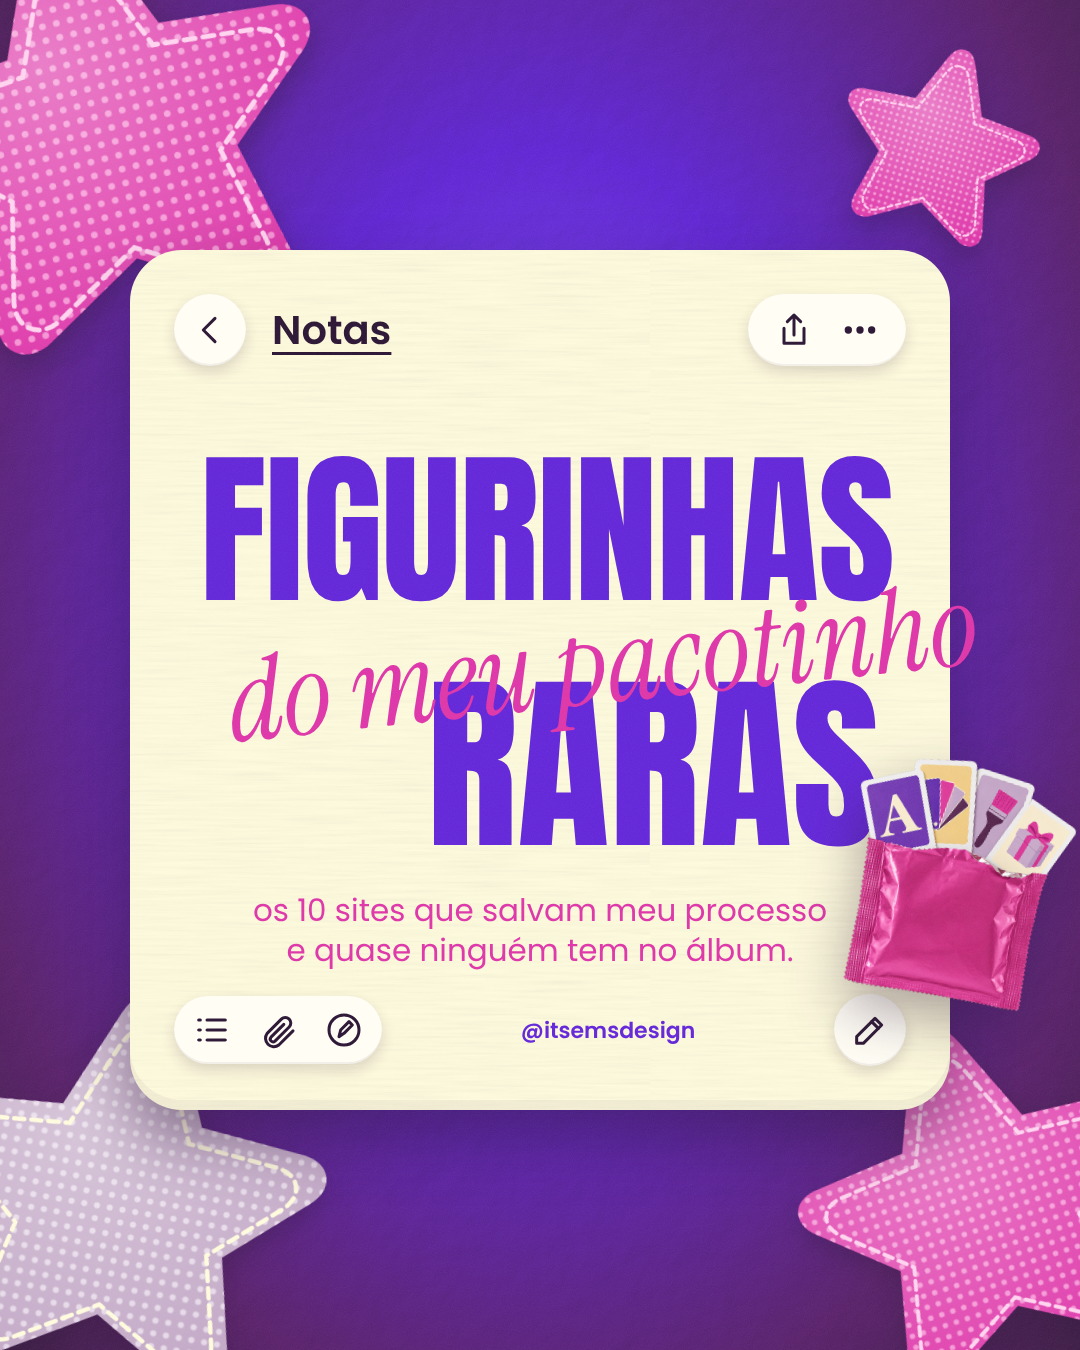
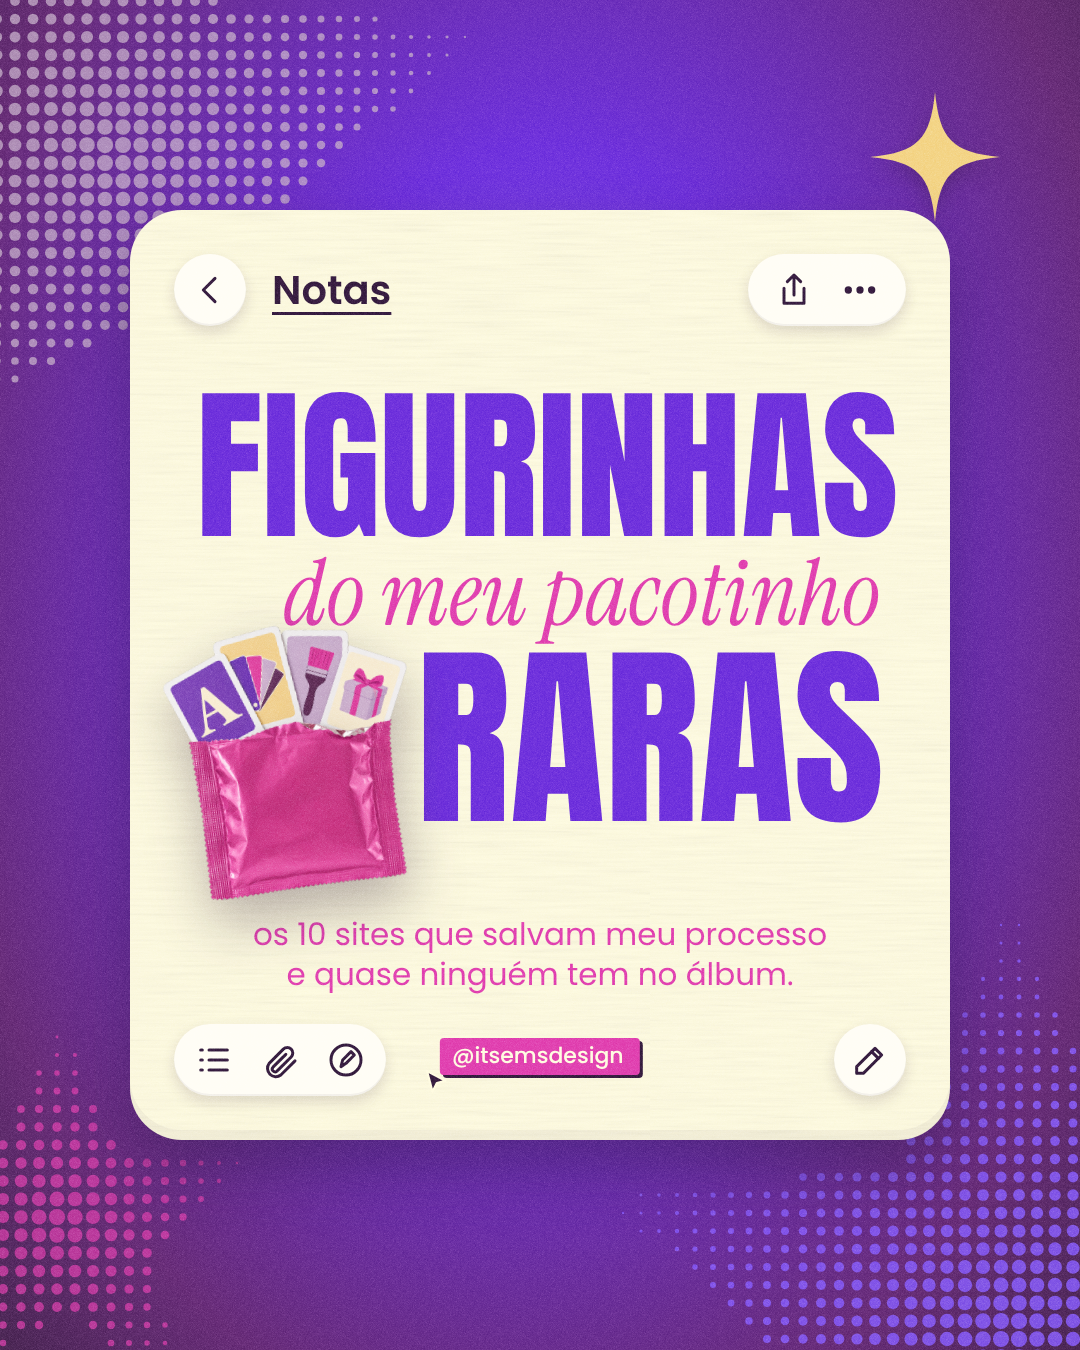
EMS figurinhas raras v4: capa com estrela em retícula da marca, granulado, título sem sobreposição e @ com cursor centrado
Claude-Session: https://claude.ai/code/session_01CmCiKB9wFc4qQovptupnZT

diff --git a/Emi/ems-album-figurinhas/projeto/carrossel.html b/Emi/ems-album-figurinhas/projeto/carrossel.html
@@ -65,44 +65,48 @@ function lamina(k, html, fundo, grao = 'grao') {
   camada('graos').insertAdjacentHTML('beforeend', `<div class="lamina" style="left:${k * W}px"><div class="${grao}"></div>${params.has('guia') ? '<div class="guia"></div>' : ''}</div>`);
 }
 
-/* ================= 1 · capa — diagramação da ref 6 (cartão de Notas, estrelas-patch, degradê) ================= */
+/* ================= 1 · capa — diagramação da ref 6 (cartão de Notas sobre fundo rico) ================= */
+/* estrela em retícula da EMS (HalftoneStar): pontos que diminuem do centro para a borda */
+function estrelaReticula(tam, cor, passo = 18) {
+  const cv = document.createElement('canvas'); cv.width = cv.height = tam; const ctx = cv.getContext('2d');
+  const c = tam / 2, R = tam / 2, m = document.createElement('canvas').getContext('2d'); m.canvas.width = m.canvas.height = tam;
+  m.beginPath(); for (let i = 0; i < 10; i++) { const a = -Math.PI / 2 + i * Math.PI / 5, rr = i % 2 ? R * .45 : R * .95; m.lineTo(c + rr * Math.cos(a), c + rr * Math.sin(a)); } m.closePath();
+  ctx.fillStyle = cor;
+  for (let y = passo / 2; y < tam; y += passo) for (let x = passo / 2; x < tam; x += passo) {
+    if (!m.isPointInPath(x, y)) continue;
+    const d = Math.hypot(x - c, y - c) / R; ctx.beginPath(); ctx.arc(x, y, passo * .46 * Math.max(.14, 1 - d * .95), 0, 7); ctx.fill();
+  }
+  return cv.toDataURL();
+}
+const BRILHO4 = 'M0,-1 C0.07,-0.27 0.27,-0.07 1,0 C0.27,0.07 0.07,0.27 0,1 C-0.07,0.27 -0.27,0.07 -1,0 C-0.27,-0.07 -0.07,-0.27 0,-1Z';
+const brilho4 = (x, y, tam, cor, r = 0) => `<svg class="abs" style="left:${x}px;top:${y}px;width:${tam}px;height:${tam}px;transform:rotate(${r}deg);filter:drop-shadow(0 8px 10px rgba(42,20,51,.35))" viewBox="-1 -1 2 2"><path d="${BRILHO4}" fill="${cor}"/></svg>`;
 (() => {
-  // estrela da marca (i-estrela, pontas arredondadas) como patch: retícula de pontos + costura
-  const ESTRELA_R = 'M0,-0.95 C0.07,-0.95 0.1,-0.9 0.13,-0.83 L0.3,-0.43 L0.74,-0.39 C0.87,-0.38 0.9,-0.27 0.81,-0.19 L0.48,0.1 L0.58,0.53 C0.61,0.66 0.5,0.73 0.39,0.66 L0,0.43 L-0.39,0.66 C-0.5,0.73 -0.61,0.66 -0.58,0.53 L-0.48,0.1 L-0.81,-0.19 C-0.9,-0.27 -0.87,-0.38 -0.74,-0.39 L-0.3,-0.43 L-0.13,-0.83 C-0.1,-0.9 -0.07,-0.95 0,-0.95Z';
-  let n = 0;
-  const patch = ({ x, y, tam, r, base, ponto, linha }) => { const id = 'pt' + (n++); return `<svg class="abs" style="left:${x}px;top:${y}px;width:${tam}px;height:${tam}px;transform:rotate(${r}deg);filter:drop-shadow(0 12px 14px rgba(42,20,51,.35))" viewBox="-1 -1 2 2">
-    <defs><pattern id="${id}" width=".055" height=".055" patternUnits="userSpaceOnUse"><circle cx=".0275" cy=".0275" r=".013" fill="${ponto}"/></pattern>
-      <radialGradient id="${id}g" cx=".4" cy=".35" r=".75"><stop offset="0" stop-color="#fff" stop-opacity=".35"/><stop offset="1" stop-color="#fff" stop-opacity="0"/></radialGradient></defs>
-    <path d="${ESTRELA_R}" fill="${base}"/><path d="${ESTRELA_R}" fill="url(#${id})"/><path d="${ESTRELA_R}" fill="url(#${id}g)"/>
-    <path d="${ESTRELA_R}" transform="scale(.86) translate(0,.02)" fill="none" stroke="${linha}" stroke-width=".022" stroke-dasharray=".05 .035" stroke-linecap="round"/></svg>`; };
-  const ic = (d, w = 44) => `<svg viewBox="0 0 24 24" style="width:${w}px;height:${w}px" fill="none" stroke="${css('tinta')}" stroke-width="1.8" stroke-linecap="round" stroke-linejoin="round">${d}</svg>`;
-  const botao = (conteudo, extra = '') => `<div style="display:flex;align-items:center;gap:26px;padding:14px 18px;border-radius:999px;background:#fffdf4;box-shadow:0 6px 14px rgba(42,20,51,.16), inset 0 -2px 0 rgba(42,20,51,.06);${extra}">${conteudo}</div>`;
+  const ic = (d, w = 40) => `<svg viewBox="0 0 24 24" style="width:${w}px;height:${w}px" fill="none" stroke="${css('tinta')}" stroke-width="1.8" stroke-linecap="round" stroke-linejoin="round">${d}</svg>`;
+  const botao = (conteudo, extra = '') => `<div style="display:flex;align-items:center;gap:26px;padding:16px 20px;border-radius:999px;background:#fffdf4;box-shadow:0 6px 14px rgba(42,20,51,.16), inset 0 -2px 0 rgba(42,20,51,.06);${extra}">${conteudo}</div>`;
+  const CX = 130, CY = 210;           // canto do cartão
   lamina(0, `
-    ${patch({ x: -150, y: -110, tam: 520, r: -14, base: css('pink'), ponto: '#f58fd2', linha: '#ffd3ee' })}
-    ${patch({ x: 820, y: 40, tam: 230, r: 16, base: css('pink'), ponto: '#f58fd2', linha: '#ffd3ee' })}
-    ${patch({ x: -120, y: 980, tam: 470, r: 10, base: css('lavanda'), ponto: '#e4d6e6', linha: '#fffbde' })}
-    ${patch({ x: 780, y: 1010, tam: 420, r: -18, base: css('pink'), ponto: '#f58fd2', linha: '#ffd3ee' })}
-    <div class="abs" style="left:130px;top:250px;width:820px;height:860px;border-radius:52px;background:var(--ivory);box-shadow:0 30px 60px rgba(42,20,51,.45), inset 0 -10px 0 rgba(42,20,51,.05)">
-      <div class="abs fibra" style="border-radius:52px;opacity:.12"></div>
+    <img class="abs" src="${estrelaReticula(820, css('lavanda'))}" style="left:-300px;top:-260px;width:820px;opacity:.75">
+    <img class="abs" src="${estrelaReticula(900, css('violeta-2'))}" style="left:560px;top:880px;width:900px;opacity:.9">
+    <img class="abs" src="${estrelaReticula(420, css('pink'))}" style="left:-150px;top:1010px;width:420px;opacity:.7">
+    ${brilho4(870, 92, 130, css('manteiga'), 0)}
+    <div class="abs" style="left:${CX}px;top:${CY}px;width:820px;height:930px;border-radius:52px;background:var(--ivory);box-shadow:0 30px 60px rgba(42,20,51,.45), inset 0 -10px 0 rgba(42,20,51,.05)">
+      <div class="abs fibra" style="border-radius:52px;opacity:.14"></div>
       <div class="abs" style="left:44px;right:44px;top:44px;display:flex;align-items:center;gap:26px">
-        ${botao(ic('<path d="M15 5l-7 7 7 7"/>', 40), 'padding:16px;')}
+        ${botao(ic('<path d="M15 5l-7 7 7 7"/>'), 'padding:16px;')}
         <span style="font-family:var(--sans);font-weight:600;font-size:40px;color:var(--tinta);text-decoration:underline;text-underline-offset:8px;text-decoration-thickness:3px">Notas</span>
         <div style="flex:1"></div>
-        ${botao(ic('<path d="M12 15V3M8 7l4-4 4 4"/><path d="M6 11v9h12v-9"/>', 40) + ic('<circle cx="5" cy="12" r="1.3" fill="#2a1433"/><circle cx="12" cy="12" r="1.3" fill="#2a1433"/><circle cx="19" cy="12" r="1.3" fill="#2a1433"/>', 40), 'padding:16px 26px;')}
+        ${botao(ic('<path d="M12 15V3M8 7l4-4 4 4"/><path d="M6 11v9h12v-9"/>') + ic('<circle cx="5" cy="12" r="1.3" fill="#2a1433"/><circle cx="12" cy="12" r="1.3" fill="#2a1433"/><circle cx="19" cy="12" r="1.3" fill="#2a1433"/>'), 'padding:16px 26px;')}
       </div>
-      <div class="abs" style="left:70px;top:206px;font-family:'Anton';font-size:166px;line-height:.9;color:var(--violeta);letter-spacing:-.005em">FIGURINHAS</div>
-      <div class="abs" style="right:70px;top:430px;font-family:'Anton';font-size:190px;line-height:.9;color:var(--violeta)">RARAS</div>
-      <div class="abs" style="left:96px;top:356px;font-family:var(--serif);font-style:italic;font-size:116px;line-height:1;color:var(--pink);transform:rotate(-6deg);white-space:nowrap">do meu pacotinho</div>
-      <div class="abs" style="left:110px;right:110px;top:640px;text-align:center;font-family:var(--sans);font-size:31px;line-height:1.3;color:var(--pink)">os 10 sites que salvam meu processo e quase ninguém tem no álbum.</div>
-      <div class="abs" style="left:44px;right:44px;bottom:44px;display:flex;align-items:center">
-        ${botao(ic('<path d="M4 6h1M9 6h11M4 12h1M9 12h11M4 18h1M9 18h11"/>', 40) + ic('<path d="M21 12.5l-8.5 8.5a5 5 0 01-7-7L14 5.5a3.3 3.3 0 014.7 4.7L10.2 18.7a1.7 1.7 0 01-2.4-2.4L15.5 8.6"/>', 40) + ic('<circle cx="12" cy="12" r="9"/><path d="M9 16l1-4 5-5 2 2-5 5-3 2z"/>', 40))}
-        <div style="flex:1;text-align:center;font-family:var(--sans);font-weight:600;font-size:22px;color:var(--violeta)">@itsemsdesign</div>
-        ${botao(ic('<path d="M4 20h4L19 9l-4-4L4 16v4z"/><path d="M13 7l4 4"/>', 40), 'padding:16px;')}
-      </div>
+      <div class="abs" style="left:66px;top:182px;font-family:'Anton';font-size:166px;line-height:.9;color:var(--violeta)">FIGURINHAS</div>
+      <div class="abs" style="right:70px;top:338px;font-family:var(--serif);font-style:italic;font-size:92px;line-height:1;color:var(--pink);white-space:nowrap">do meu pacotinho</div>
+      <div class="abs" style="right:66px;top:440px;font-family:'Anton';font-size:196px;line-height:.9;color:var(--violeta)">RARAS</div>
+      <div class="abs" style="left:110px;right:110px;top:704px;text-align:center;font-family:var(--sans);font-size:31px;line-height:1.3;color:var(--pink)">os 10 sites que salvam meu processo e quase ninguém tem no álbum.</div>
+      <div class="abs" style="left:44px;bottom:44px">${botao(ic('<path d="M4 6h1M9 6h11M4 12h1M9 12h11M4 18h1M9 18h11"/>') + ic('<path d="M21 12.5l-8.5 8.5a5 5 0 01-7-7L14 5.5a3.3 3.3 0 014.7 4.7L10.2 18.7a1.7 1.7 0 01-2.4-2.4L15.5 8.6"/>') + ic('<circle cx="12" cy="12" r="9"/><path d="M9 16l1-4 5-5 2 2-5 5-3 2z"/>'))}</div>
+      <div class="abs" style="right:44px;bottom:44px">${botao(ic('<path d="M4 20h4L19 9l-4-4L4 16v4z"/><path d="M13 7l4 4"/>'), 'padding:16px;')}</div>
     </div>
-    ${objeto({ x: 846, y: 760, w: 220, r: 10, src: 'pacotinho' })}
-  `, `<div class="abs" style="inset:0;background:radial-gradient(ellipse at 50% 42%, var(--violeta-2) 0%, var(--violeta) 38%, var(--plum) 78%, var(--ameixa) 100%)"></div>
-      <div class="abs" style="inset:0;background-image:var(--tx-relevo);background-size:700px;mix-blend-mode:multiply;opacity:.35"></div>`, 'grao-luz');
+    ${objeto({ x: CX + 44, y: CY + 414, w: 244, r: -8, src: 'pacotinho' })}
+    <div class="handle" id="capa-handle" style="left:540px;top:${CY + 930 - 44 - 58}px;transform:translateX(-50%);--bg:var(--pink)">@itsemsdesign${CURSOR}</div>
+  `, `<div class="abs" style="inset:0;background:radial-gradient(ellipse at 50% 42%, var(--violeta-2) 0%, var(--violeta) 38%, var(--plum) 80%, var(--ameixa) 100%)"></div>`, 'grao-forte');
 })();
 
 /* ================= 2 · pesquisa — diagramação da ref 8 (agenda) ================= */

diff --git a/Emi/ems-album-figurinhas/projeto/estilo.css b/Emi/ems-album-figurinhas/projeto/estilo.css
@@ -23,6 +23,7 @@ html, body { background: #120818; }
 
 /* matérias */
 .grao { position: absolute; inset: 0; background-image: var(--tx-grao); background-size: 300px; opacity: .1; mix-blend-mode: multiply; }
+.grao-forte { position: absolute; inset: 0; background-image: var(--tx-grao); background-size: 180px; opacity: 1; mix-blend-mode: soft-light; }
 .grao-luz { position: absolute; inset: 0; background-image: var(--tx-grao); background-size: 300px; opacity: .07; mix-blend-mode: screen; }
 .fibra { position: absolute; inset: 0; background-image: var(--tx-papel); background-size: 520px; opacity: .22; mix-blend-mode: multiply; }
 
